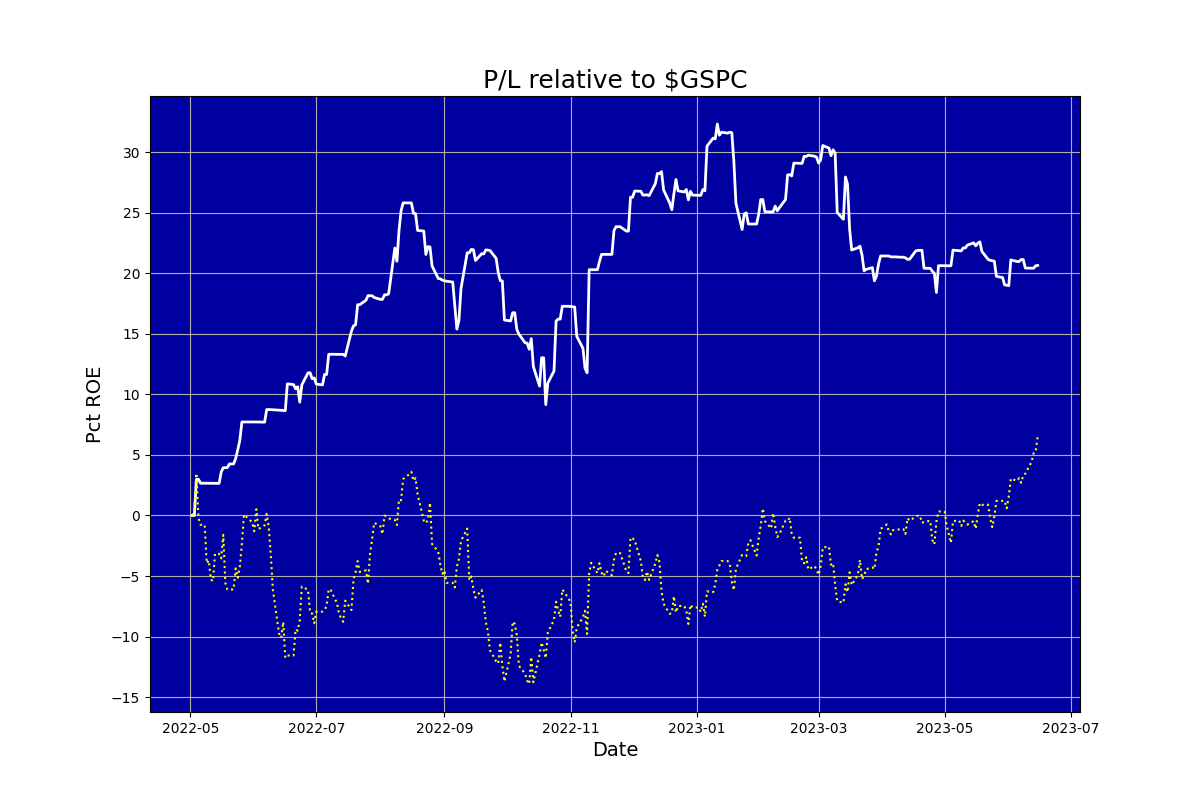
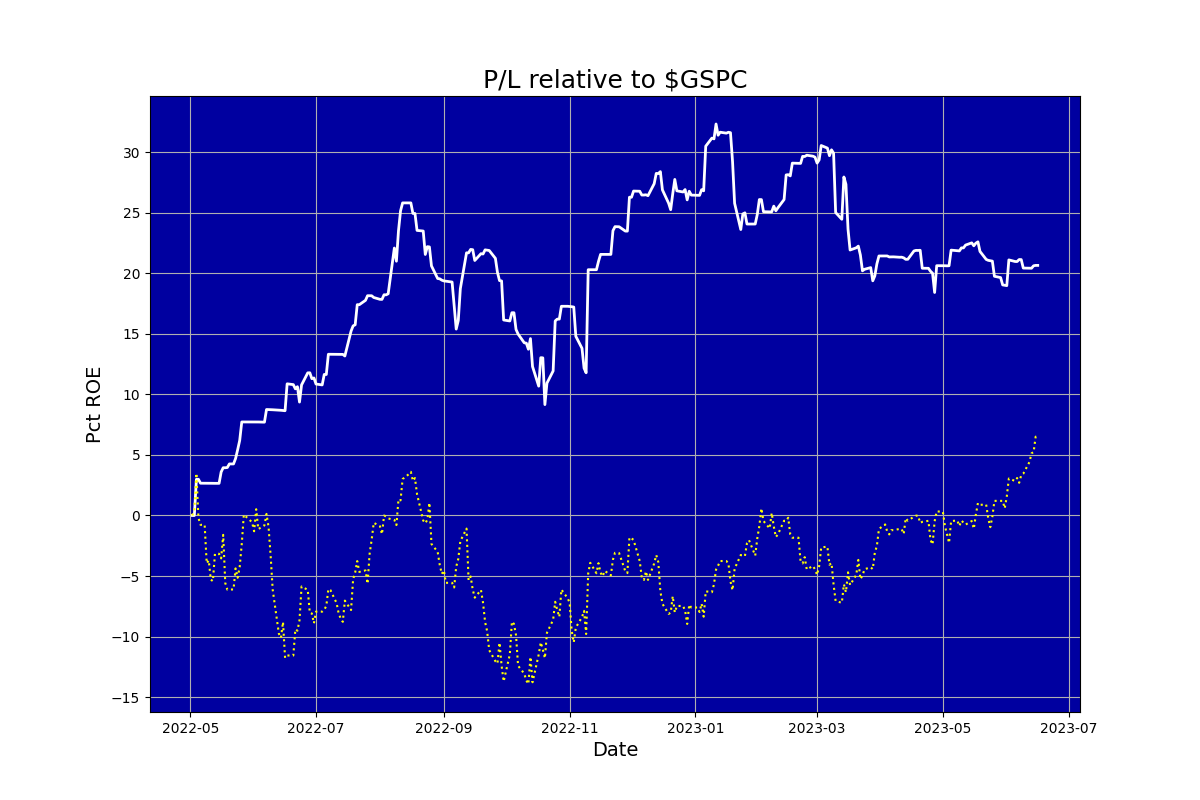
Updated

diff --git a/ig_report.html b/ig_report.html
@@ -1,1 +1,1 @@
-<html><body><center><h1>Auriel (never knowingly overbought)</h1></center><table cols=2><tr><td><img src=ig_pl.png></td><td><table cols=2><tr><td colspan=2><b><br>Snapshot</b></td></tr><tr><td>Last updated:&nbsp;&nbsp;&nbsp;</td><td>2023-06-15 15:53</td></tr><tr><td>Margin:&nbsp;&nbsp;&nbsp;</td><td>0.00</td></tr><tr><td>Cushion:&nbsp;&nbsp;&nbsp;</td><td>-35851.92</td></tr><tr><td>Last closed trade:&nbsp;&nbsp;&nbsp;</td><td>2023-06-15</td></tr><tr><td colspan=2><b><br>Positions</b></td></tr><tr><td>Mean days to new high:&nbsp;&nbsp;&nbsp;</td><td>13.31</td></tr><tr><td colspan=2><b><br>Trades</b></td></tr><tr><td>Traded days:&nbsp;&nbsp;&nbsp;</td><td>296</td></tr><tr><td>Profitable days pct:&nbsp;&nbsp;&nbsp;</td><td>37.50</td></tr><tr><td>Days beat S&P pct:&nbsp;&nbsp;&nbsp;</td><td>54.06</td></tr><tr><td>Profitable months pct:&nbsp;&nbsp;&nbsp;</td><td>64.29</td></tr><tr><td colspan=2><b><br>Performance</b></td></tr><tr><td>Pct median monthly ROE:&nbsp;&nbsp;&nbsp;</td><td>1.28</td></tr><tr><td>Pct annualised ROE:&nbsp;&nbsp;&nbsp;</td><td>17.44</td></tr><tr><td colspan=2><b><br>Risk</b></td></tr><tr><td>Volatility pct:&nbsp;&nbsp;&nbsp;</td><td>18.48</td></tr><tr><td>Benchmark volatility pct:&nbsp;&nbsp;&nbsp;</td><td>21.50</td></tr><tr><td>Sharpe ratio (RFR 5.0%):&nbsp;&nbsp;&nbsp;</td><td>0.76</td></tr><tr><td>Sortino ratio (RFR 5.0%):&nbsp;&nbsp;&nbsp;</td><td>1.07</td></tr><tr><td>Calmar ratio:&nbsp;&nbsp;&nbsp;</td><td>1.05</td></tr><tr><td>Worst drawdown pct:&nbsp;&nbsp;&nbsp;</td><td>-0.17</td></tr><tr><td>Recovery days from worst drawdown:&nbsp;&nbsp;&nbsp;</td><td>29.00</td></tr><tr><td>Beat benchmark +ve periods pct:&nbsp;&nbsp;&nbsp;</td><td>50.33</td></tr><tr><td>Beat benchmark -ve periods pct:&nbsp;&nbsp;&nbsp;</td><td>87.87</td></tr><tr><td>Correlation with benchmark:&nbsp;&nbsp;&nbsp;</td><td>0.35</td></tr></table></td></tr></table></body></html>
+<html><body><center><h1>Auriel (never knowingly overbought)</h1></center><table cols=2><tr><td><img src=ig_pl.png></td><td><table cols=2><tr><td colspan=2><b><br>Snapshot</b></td></tr><tr><td>Last updated:&nbsp;&nbsp;&nbsp;</td><td>2023-06-16 15:53</td></tr><tr><td>Margin:&nbsp;&nbsp;&nbsp;</td><td>0.00</td></tr><tr><td>Cushion:&nbsp;&nbsp;&nbsp;</td><td>-35851.92</td></tr><tr><td>Last closed trade:&nbsp;&nbsp;&nbsp;</td><td>2023-06-15</td></tr><tr><td colspan=2><b><br>Positions</b></td></tr><tr><td>Mean days to new high:&nbsp;&nbsp;&nbsp;</td><td>13.32</td></tr><tr><td colspan=2><b><br>Trades</b></td></tr><tr><td>Traded days:&nbsp;&nbsp;&nbsp;</td><td>297</td></tr><tr><td>Profitable days pct:&nbsp;&nbsp;&nbsp;</td><td>37.37</td></tr><tr><td>Days beat S&P pct:&nbsp;&nbsp;&nbsp;</td><td>54.23</td></tr><tr><td>Profitable months pct:&nbsp;&nbsp;&nbsp;</td><td>64.29</td></tr><tr><td colspan=2><b><br>Performance</b></td></tr><tr><td>Pct median monthly ROE:&nbsp;&nbsp;&nbsp;</td><td>1.28</td></tr><tr><td>Pct annualised ROE:&nbsp;&nbsp;&nbsp;</td><td>17.38</td></tr><tr><td colspan=2><b><br>Risk</b></td></tr><tr><td>Volatility pct:&nbsp;&nbsp;&nbsp;</td><td>18.45</td></tr><tr><td>Benchmark volatility pct:&nbsp;&nbsp;&nbsp;</td><td>21.46</td></tr><tr><td>Sharpe ratio (RFR 5.0%):&nbsp;&nbsp;&nbsp;</td><td>0.76</td></tr><tr><td>Sortino ratio (RFR 5.0%):&nbsp;&nbsp;&nbsp;</td><td>1.06</td></tr><tr><td>Calmar ratio:&nbsp;&nbsp;&nbsp;</td><td>1.04</td></tr><tr><td>Worst drawdown pct:&nbsp;&nbsp;&nbsp;</td><td>-0.17</td></tr><tr><td>Recovery days from worst drawdown:&nbsp;&nbsp;&nbsp;</td><td>29.00</td></tr><tr><td>Beat benchmark +ve periods pct:&nbsp;&nbsp;&nbsp;</td><td>49.92</td></tr><tr><td>Beat benchmark -ve periods pct:&nbsp;&nbsp;&nbsp;</td><td>87.87</td></tr><tr><td>Correlation with benchmark:&nbsp;&nbsp;&nbsp;</td><td>0.35</td></tr></table></td></tr></table></body></html>
